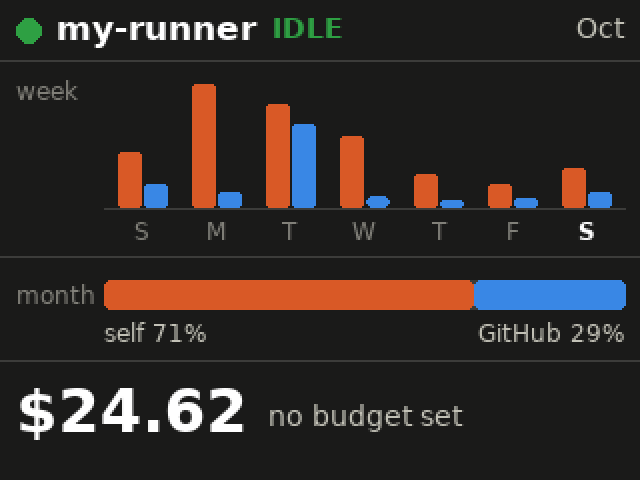
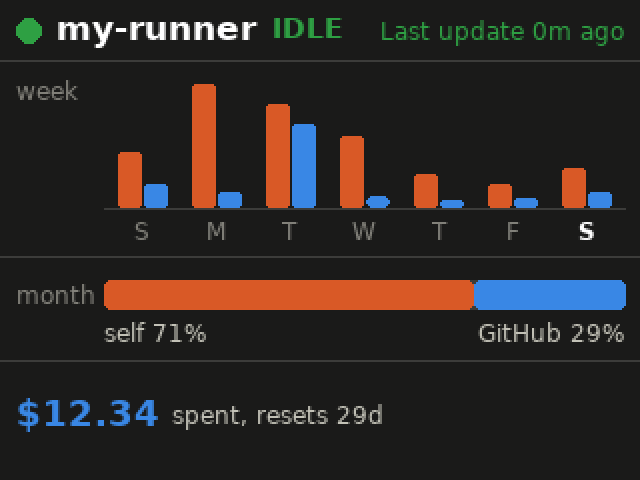
Replace project-specific examples with synthetic samples

Changed region(s): [[0.0312, 0.7812, 0.7188, 0.9062], [0.5938, 0.0312, 1.0, 0.0938]]

diff --git a/host/dc32host/attention.py b/host/dc32host/attention.py
@@ -3,7 +3,7 @@
 A separate process writes ~/.cache/dc32-display/attention.json (this daemon only reads it):
   {"at": "<ISO UTC>", "indicators": [{"id", "label", "lit", "level", "reason", "tag", "since", "link"}, ...]}
 reason is the descriptor under the label (an optional `segments` [{t, level}] draws it in one colour per piece) (the writer keeps it to 12 characters; an unlit indicator may still carry one);
-tag (Lab, Ops, API, Eng) is drawn before it in a category colour. since is not shown.
+A short tag is drawn before it in a category colour. since is not shown.
 Each indicator owns one LED (config `attention_leds`: id -> LED index) and one screen slot
 (config `attention_slots`: id -> "left_top" ... "right_low"). Lit = needs you, off = nothing for you.
 The badge has five front LEDs, placed around the screen: left top (beside the
@@ -213,8 +213,9 @@ TH_VIOLET = (164, 132, 196)    # clear labels
 TH_DIM = (98, 74, 128)
 TH_GLOW = (96, 30, 0)          # under a lit trace
 TH_SOFT = (128, 100, 160)      # descriptor of a clear signal that still has one (CI spend)
-# Category tag colours
-TAG_RGB = {"Lab": (0x5f, 0xd7, 0xff), "Ops": (0xff, 0xaf, 0x5f), "API": (0xff, 0x87, 0xd7), "Eng": (0xaf, 0xff, 0x5f)}
+# Standard categories use fixed colours; custom short tags use cyan.
+DEFAULT_TAG_RGB = (0x5f, 0xd7, 0xff)
+TAG_RGB = {"Ops": (0xff, 0xaf, 0x5f), "API": (0xff, 0x87, 0xd7), "Eng": (0xaf, 0xff, 0x5f)}
 L1W = 150                     # label + counts line; only the right column's "Priority blocked" (116 px) plus "2R 1Y" needs more than COLW
 COLW = 130                     # hard cap on a column's text width; left starts at x=22, right ends at x=298, so they never meet
 
@@ -327,7 +328,8 @@ def render(state, slots_map=None, now=None, boxes=None):
         countw = sum(cw) + 4 if runs else 0
         label = _fit(d, ind.get("label") or ind["id"].replace("_", " "), f_l, (L1W if runs else COLW) - countw)
         # descriptor: [tag] reason, one line, never wider than the column
-        tag = ind.get("tag") if lit and ind.get("tag") in TAG_RGB else ""
+        tag = ind.get("tag")
+        tag = tag if lit and isinstance(tag, str) and 0 < len(tag) <= 3 else ""
         tagw = d.textlength(tag + " ", font=f_tag) if tag else 0
         reason = "" if stale or not ind.get("reason") else _fit(d, str(ind["reason"]), f_d, COLW - tagw)
         # per-segment colours ("Cl 30% Cx 4%": each plan in its own level colour, neutral in the soft descriptor colour)
@@ -349,7 +351,7 @@ def render(state, slots_map=None, now=None, boxes=None):
             put(side, (cx, y + 2), t, f_cnt, c)
             cx += w
         if tag:
-            put(side, (dx, y + 31), tag, f_tag, TAG_RGB[tag], "ls")
+            put(side, (dx, y + 31), tag, f_tag, TAG_RGB.get(tag, DEFAULT_TAG_RGB), "ls")
         if pieces:
             px = dx + tagw
             for t, c in pieces:

diff --git a/tests/test_attention.py b/tests/test_attention.py
@@ -2,6 +2,7 @@
 from pathlib import Path
 import datetime as dt
 import json
+import math
 import sys
 import tempfile
 import unittest
@@ -48,7 +49,7 @@ FIXTURES = {
     'two': doc(40, {'production': 'labbox off', 'pr_waiting': 'sample#12'}, {'pr_waiting': 'Ops'}),
     'stale': doc(25 * 60, {'production': 'Health down'}),
     'red': doc(40, {'priority_blocked': 'Demo task', 'spend': '$70/$80'}, {'priority_blocked': 'Lab'}, levels={'spend': 'red'}),
-    # all five lit with the longest real strings (the live state on 2026-10-13 plus the longest short a writer can emit)
+    # Synthetic descriptors exercise all five lights and the maximum display width.
     'longest': doc(40, {'priority_blocked': 'Lab account', 'production': 'deskpc off', 'spend': '$70/$80',
                         'capacity': 'Claude bal: 17%', 'pr_waiting': 'sample#1234'},
                    {'priority_blocked': 'Ops', 'pr_waiting': 'Ops'}, levels={'spend': 'red', 'capacity': 'red', 'production': 'yellow'}),
@@ -156,7 +157,8 @@ class Columns(unittest.TestCase):
         self.assertEqual(len(pri), 2, pri)                       # tag, reason (the label sits above)
         tag, reason = pri
         self.assertEqual(tag[4], reason[4])                      # same bottom: no descenders in "API"/"API limits", so the baseline
-        self.assertGreaterEqual(reason[4] - reason[2], 10)       # taller than the old 11 px text
+        small = A._ttf(11).getbbox('API limits')
+        self.assertGreater(reason[4] - reason[2], small[3] - small[1])  # taller than the old 11 px text in this font
         self.assertEqual(A.TAG_RGB['API'], (0xff, 0x87, 0xd7))
 
     def test_recorded_boxes_stay_in_their_column(self):
@@ -217,8 +219,14 @@ class Columns(unittest.TestCase):
         self.assertFalse((A.render(A.load(write(quiet), now=NOW), now=NOW) == A.render(A.load(write(bare), now=NOW), now=NOW)).all())
         self.assertEqual(A.lit_leds(A.load(write(quiet), now=NOW), A.DEFAULT_LEDS), set())
 
-    def test_tag_colour_follows_the_dashboard(self):
-        self.assertEqual(set(A.TAG_RGB), {'Lab', 'Ops', 'API', 'Eng'})
+    def test_standard_and_custom_tag_colours(self):
+        self.assertEqual(set(A.TAG_RGB), {'Ops', 'API', 'Eng'})
+        boxes = []
+        custom = A.render(A.load(write(FIXTURES['red']), now=NOW), now=NOW, boxes=boxes)
+        tag_box = min((b for b in boxes if b[0] == 'right' and 150 < b[2] < 170), key=lambda b: b[1])
+        _, x0, y0, x1, y1 = tag_box
+        x0, y0, x1, y1 = math.floor(x0), math.floor(y0), math.ceil(x1), math.ceil(y1)
+        self.assertTrue(((custom[y0:y1, x0:x1] == np.array(A.DEFAULT_TAG_RGB)).all(axis=2)).any())
         im = A.render(A.load(write(FIXTURES['api']), now=NOW), now=NOW)
         self.assertTrue(((im == np.array(A.TAG_RGB['API'])).all(axis=2)).any())
 

diff --git a/tests/test_runner_view.py b/tests/test_runner_view.py
@@ -114,8 +114,8 @@ class RunnerViewTest(unittest.TestCase):
             view(data).render(now=data.fixture['now'])
         self.assertIn('new-runner',texts)
         self.assertTrue(any(t.endswith(' ago') for t in texts))            # 'Last update 5m ago' or '5m ago'
-        self.assertIn('$24.62',texts)
-        self.assertTrue(any(t.startswith('of $250, resets ') for t in texts))
+        self.assertIn('$12.34',texts)
+        self.assertTrue(any(t.startswith('of $80, resets ') for t in texts))
         # no savings line without a computed estimate
         self.assertFalse(any(term in ' '.join(texts).lower() for term in ('saved','12h','list price','paused')))
 
@@ -127,9 +127,9 @@ class RunnerViewTest(unittest.TestCase):
         with patch.object(rv.ImageDraw.ImageDraw,'text',record):
             view(data).render(now=data.fixture['now'])
         ys=dict(seen)
-        self.assertLess(ys['$12.50'],ys['$24.62'])
+        self.assertLess(ys['$12.50'],ys['$12.34'])
         self.assertIn('saved, rolling 30d',ys)
-        self.assertTrue(any(k.startswith('of $250, resets ') for k in ys))
+        self.assertTrue(any(k.startswith('of $80, resets ') for k in ys))
         self.assertTrue(all(y<=226 for _,y in seen))
 
     def test_errors_are_status_only_and_unknown_billing_is_not_zero(self):
@@ -178,7 +178,7 @@ class RunnerViewTest(unittest.TestCase):
             texts.append(text);return original(draw,xy,text,*a,**kw)
         with patch.object(rv.ImageDraw.ImageDraw,'text',record):frame=v.render(now=now)
         self.assertIn('$—',texts)
-        self.assertNotIn('$24.62',texts)
+        self.assertNotIn('$12.34',texts)
         self.assertEqual(tuple(frame[146,180]),rv.GRID)
 
     def test_refresh_button_still_kicks_existing_event(self):

diff --git a/host/dc32host/config.py b/host/dc32host/config.py
@@ -36,7 +36,7 @@ DEFAULTS = {
     "max_frames_in_flight": 2,
     "brightness": 22,                 # 0..31
     "idle_clock_s": 0,                # show the drifting clock after this many idle seconds (0 = off)
-    "dim_after_s": 0,                 # dim the badge backlight after this long without PC/badge input (0 = never; the screen stays where you set it)
+    "dim_after_s": 0,                 # dim after this many seconds without PC/badge input (0 = never)
     "dim_brightness": 2,
     "led_brightness_pct": 25,         # LED brightness 1..100 (%); `dc32host ctl led_brightness:50`
     "tap_sleep": True,                # knock-knock on the badge (2 taps 0.3-1 s apart): sleep / wake

diff --git a/README.md b/README.md
@@ -19,7 +19,7 @@ Actions runner cost view.
 |---|---|
 | ![Runner view: status, seven days of minutes, monthly share and billed budget](docs/img/runner-view.png) | ![Cheat sheet of keyboard shortcuts and badge buttons](docs/img/cheat-sheet.png) |
 
-Both are drawn natively at the badge's 320×240 (shown here at 2×; the runner view uses demo data).
+Both are drawn natively at the badge's 320×240 (shown here at 2×; all dashboard screens use synthetic data).
 
 ## Buttons
 
@@ -227,3 +227,14 @@ and 2) are inferred; if two look swapped, `dc32host ctl leds_identify` lights LE
 number on screen, then set `attention_leds`. Calling it again stops it.
 
 ![Report: nothing lit](docs/img/attention-none.png) ![Report: red and yellow](docs/img/attention-red.png) ![Report: stale](docs/img/attention-stale.png)
+
+## Sample data
+
+Documentation dashboard images are rendered from the synthetic fixtures in
+`tests/test_attention.py` and `tests/fixtures/runner-view.json`. They contain no
+live task titles, repository names or usage totals. The hardware photo shows this
+project running on a badge.
+
+The attention producer is an external integration. This repository only consumes
+`attention.json`; its schema and file location remain unchanged. Custom tags up to three characters
+use cyan, alongside the built-in Ops, API and Eng category colours.
